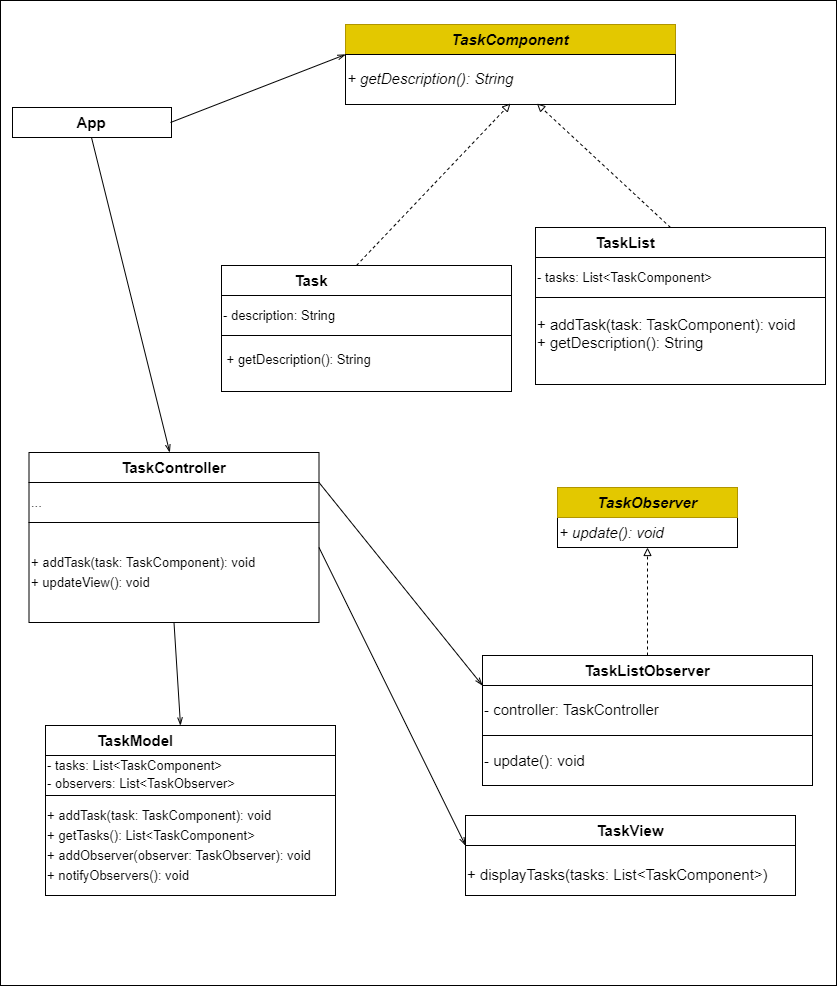
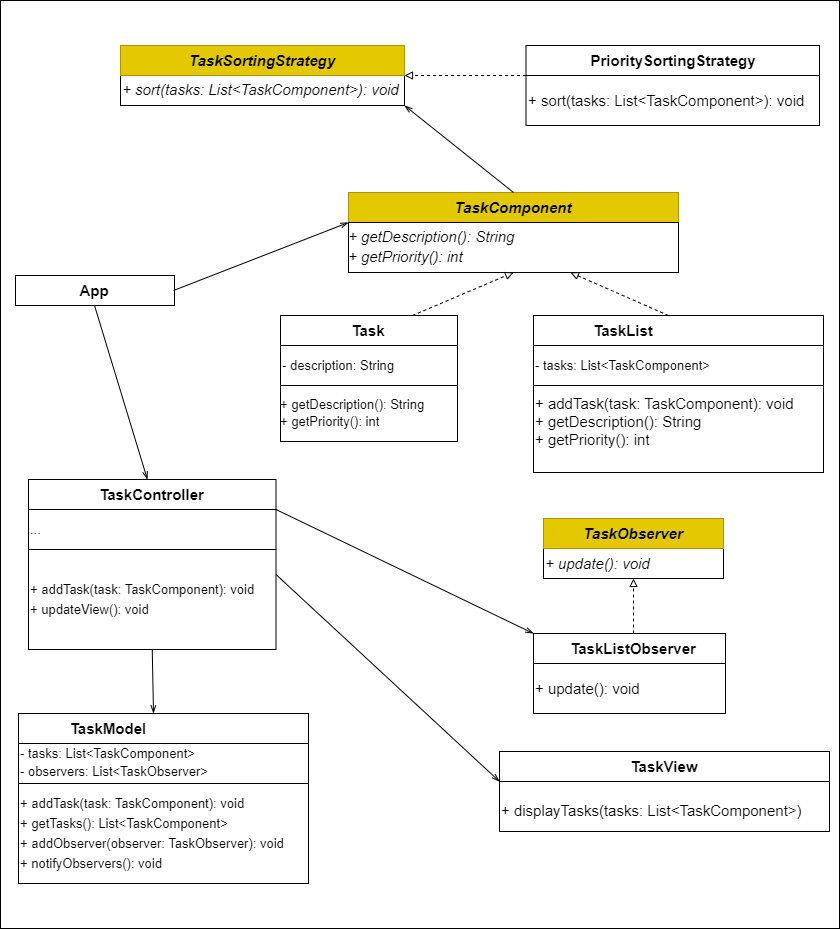
feat: stratefy on MVC

diff --git a/Engenharia de Software 3/mvc/src/Main.java b/Engenharia de Software 3/mvc/src/Main.java
@@ -1,3 +1,6 @@
+import java.util.ArrayList;
+import java.util.List;
+
 public class Main {
     public static void main(String[] args) {
         TaskModel model = new TaskModel();
@@ -7,11 +10,12 @@ public class Main {
         TaskListObserver observer = new TaskListObserver(controller);
         model.addObserver(observer);
 
-        TaskList taskList = new TaskList();
-        taskList.addTask(new Task("Task 1"));
-        taskList.addTask(new Task("Task 2"));
+        List<TaskComponent> tasks = new ArrayList<>();
+        tasks.add(new Task("Task 1", 2)); // Prioridade 2
+        tasks.add(new Task("Task 2", 1)); // Prioridade 1
 
         // Adicionando a TaskList como uma tarefa ao invés de adicioná-la diretamente
+        TaskList taskList = new TaskList(tasks);
         TaskComponent taskListAsTask = taskList;
         controller.addTask(taskListAsTask);
 

diff --git a/Engenharia de Software 3/mvc/src/TaskList.java b/Engenharia de Software 3/mvc/src/TaskList.java
@@ -1,8 +1,11 @@
-import java.util.ArrayList;
 import java.util.List;
 
 public class TaskList implements TaskComponent {
-    private List<TaskComponent> tasks = new ArrayList<>();
+    private List<TaskComponent> tasks;
+
+    public TaskList(List<TaskComponent> tasks) {
+        this.tasks = tasks;
+    }
 
     public void addTask(TaskComponent task) {
         tasks.add(task);
@@ -13,5 +16,11 @@ public class TaskList implements TaskComponent {
         StringBuilder description = new StringBuilder("Task List:\n");
         tasks.forEach(task -> description.append(task.getDescription()).append("\n"));
         return description.toString();
+    }
+
+    @Override
+    public int getPriority() {
+        // Prioridade da lista é a menor prioridade entre suas tarefas
+        return tasks.stream().mapToInt(TaskComponent::getPriority).min().orElse(0);
     }
 }

diff --git a/Engenharia de Software 3/mvc/src/Task.java b/Engenharia de Software 3/mvc/src/Task.java
@@ -1,12 +1,19 @@
 public class Task implements TaskComponent {
     private String description;
+    private int priority;
 
-    public Task(String description) {
+    public Task(String description, int priority) {
         this.description = description;
+        this.priority = priority;
     }
 
     @Override
     public String getDescription() {
         return description;
+    }
+
+    @Override
+    public int getPriority() {
+        return priority;
     }
 }

diff --git a/Engenharia de Software 3/mvc/src/PrioritySortingStrategy.java b/Engenharia de Software 3/mvc/src/PrioritySortingStrategy.java
@@ -1,0 +1,11 @@
+import java.util.Collections;
+import java.util.Comparator;
+import java.util.List;
+
+public class PrioritySortingStrategy implements TaskSortingStrategy {
+    @Override
+    public void sort(List<TaskComponent> tasks) {
+        Collections.sort(tasks, Comparator.comparingInt(task -> ((Task) task).getPriority()));
+    }
+
+}

diff --git a/Engenharia de Software 3/mvc/src/TaskSortingStrategy.java b/Engenharia de Software 3/mvc/src/TaskSortingStrategy.java
@@ -1,0 +1,5 @@
+import java.util.List;
+
+public interface TaskSortingStrategy {
+    void sort(List<TaskComponent> tasks);
+}

diff --git a/Engenharia de Software 3/mvc/src/TaskComponent.java b/Engenharia de Software 3/mvc/src/TaskComponent.java
@@ -1,3 +1,4 @@
 public interface TaskComponent {
     String getDescription();
+    int getPriority();
 }
